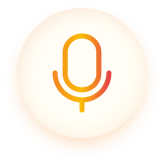
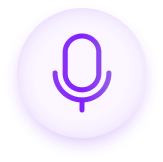
Hot Fix

diff --git a/src/pages/Ara/index.jsx b/src/pages/Ara/index.jsx
@@ -67,7 +67,7 @@ const Ara = () => {
         <h1 
             className="text-[48px] font-semibold font-jost leading-[46px]"
             style={{ 
-                backgroundImage: 'linear-gradient(90deg, #EC6124, #FBBC05, #8E0615)',
+                backgroundImage: 'linear-gradient(90deg, #7E24EC, #7405FB, #43068E)', //'linear-gradient(90deg, #EC6124, #FBBC05, #8E0615)'
                 WebkitBackgroundClip: 'text',
                 backgroundClip: 'text',
                 color: 'transparent',
@@ -80,7 +80,7 @@ const Ara = () => {
       {/* Gradient Subheading */}
         <h2 className="text-[48px] font-semibold font-jost leading-[58px] mb-6">
             <span style={{ 
-                backgroundImage: 'linear-gradient(90deg, #EC6124, #FBBC05, #8E0615)',
+                backgroundImage: 'linear-gradient(90deg, #7E24EC, #7405FB, #43068E)',
                 WebkitBackgroundClip: 'text',
                 backgroundClip: 'text',
                 color: 'transparent',
